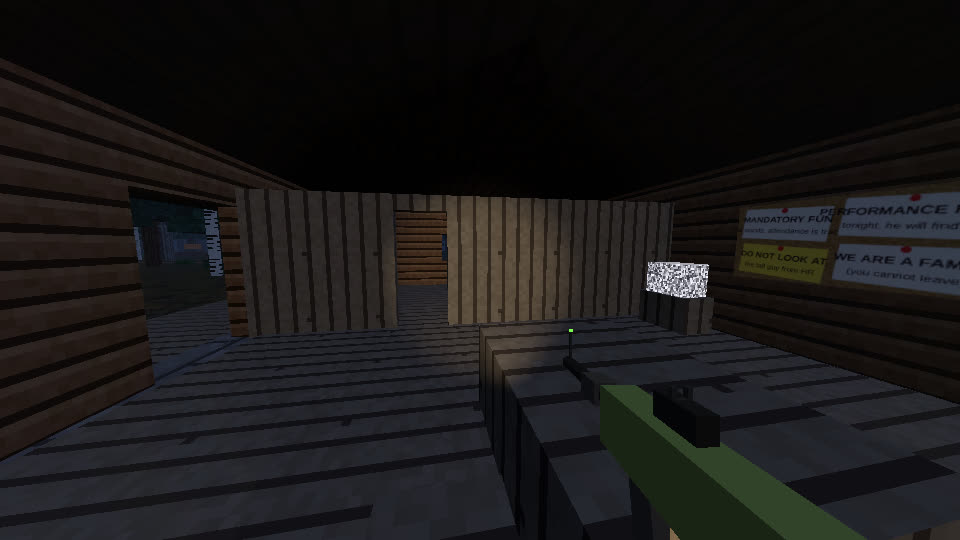
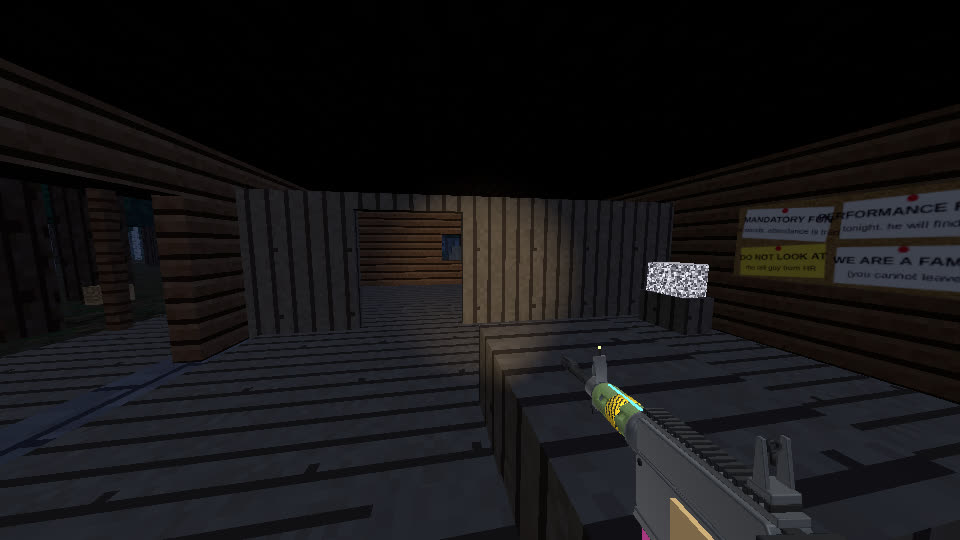
Scary Forest: bots can get into the cabin now, so they plant at A
The cabin's doors were too narrow for the bots' walk graph (the front door was 1.6 m with the bedroom
wall right at its edge), so the inside of the cabin was cut off from the rest of the map. Players
fit, bots didn't: main's new attack AI picks plant spots inside the cabin and ran out the clock every
A round. The front, back and bedroom doors and the mast shed's door are 2 m now, on the 1 m grid.
The whole cabin connects; a 10-minute bots match planted on 4 of 4 A attacks.

Claude-Session: https://claude.ai/code/session_01Ayo4emsWAf2dVQjxKunVbu

diff --git a/shared/map.js b/shared/map.js
@@ -2273,13 +2273,14 @@ function forest() {
   { const L = B.local(CAB[0], CAB[1], 0);
     const hw = 6.5, hd = 4.5, t = 0.35, Hh = 3.1, F = 0.35;
     L(-hw - 0.4, 0, -hd - 0.4, hw + 0.4, F, hd + 0.4, 'stonebase'); L(-hw + t, F, -hd + t, hw - t, F + 0.05, hd - t, 'planks');
-    const front = [{ a: -1.0, b: 0.6, y0: F, y1: F + 2.3 }, { a: -4.6, b: -3.0, y0: F + 1.0, y1: F + 2.1 }, { a: 2.8, b: 4.4, y0: F + 1.0, y1: F + 2.1 }];
+    // doors 2 m wide on the 1 m grid, so bots' walk graph gets through them
+    const front = [{ a: 0, b: 2.0, y0: F, y1: F + 2.3 }, { a: -4.6, b: -3.0, y0: F + 1.0, y1: F + 2.1 }, { a: 2.8, b: 4.4, y0: F + 1.0, y1: F + 2.1 }];
     wall(L, 'x', hd, -hw, hw, F, F + Hh, t, 'logwall', front); // the front, facing the porch (+z, south)
-    wall(L, 'x', -hd, -hw, hw, F, F + Hh, t, 'logwall', [{ a: 3.4, b: 4.8, y0: F, y1: F + 2.3 }, { a: -3.6, b: -2.2, y0: F + 1.0, y1: F + 2.1 }]); // the back door
+    wall(L, 'x', -hd, -hw, hw, F, F + Hh, t, 'logwall', [{ a: 3.0, b: 5.0, y0: F, y1: F + 2.3 }, { a: -3.6, b: -2.2, y0: F + 1.0, y1: F + 2.1 }]); // the back door
     wall(L, 'z', -hw, -hd + t / 2, hd - t / 2, F, F + Hh, t, 'logwall', [{ a: -0.8, b: 0.8, y0: F + 1.0, y1: F + 2.1 }]);
     wall(L, 'z', hw, -hd + t / 2, hd - t / 2, F, F + Hh, t, 'logwall', [{ a: 1.4, b: 2.6, y0: F + 1.0, y1: F + 2.1 }]);
-    L(-1.2, F, -hd + t / 2, -0.9, F + 2.6, 0.8, 'planks'); // a thin wall splits off the bedroom (west), with a doorway
-    L(-1.2, F, 1.8, -0.9, F + 2.6, hd - t / 2, 'planks'); L(-1.2, F + 2.3, 0.8, -0.9, F + 2.6, 1.8, 'planks');
+    L(-1.2, F, -hd + t / 2, -0.9, F + 2.6, 0.5, 'planks'); // a thin wall splits off the bedroom (west), with a 2 m doorway (bots fit)
+    L(-1.2, F, 2.5, -0.9, F + 2.6, hd - t / 2, 'planks'); L(-1.2, F + 2.3, 0.5, -0.9, F + 2.6, 2.5, 'planks');
     // the roof: stepped slabs to a ridge along x, a little overhang, then a ridge beam
     const top = F + Hh;
     for (let i = 0; i < 5; i++) L(-hw - 0.5, top + i * 0.42, -hd - 0.7 + i * 1.05, hw + 0.5, top + i * 0.42 + 0.42, hd + 0.7 - i * 1.05, i % 2 ? 'cabinroof2' : 'cabinroof');
@@ -2369,7 +2370,7 @@ function forest() {
     const Sd = B.local(mx - 5, mz - 1, 0);
     Sd(-2.5, 0, -2, 2.5, 0.2, 2, 'concrete');
     wall(Sd, 'x', -2, -2.5, 2.5, 0.2, 2.9, 0.2, 'shedmetal', []); wall(Sd, 'x', 2, -2.5, 2.5, 0.2, 2.9, 0.2, 'shedmetal', [{ a: -1.6, b: 0, y0: 1.1, y1: 2.0 }]);
-    wall(Sd, 'z', -2.5, -1.9, 1.9, 0.2, 2.9, 0.2, 'shedmetal', [{ a: -0.6, b: 0.8, y0: 0.2, y1: 2.4 }]); wall(Sd, 'z', 2.5, -1.9, 1.9, 0.2, 2.9, 0.2, 'shedmetal', []);
+    wall(Sd, 'z', -2.5, -1.9, 1.9, 0.2, 2.9, 0.2, 'shedmetal', [{ a: -1.0, b: 1.0, y0: 0.2, y1: 2.4 }]); wall(Sd, 'z', 2.5, -1.9, 1.9, 0.2, 2.9, 0.2, 'shedmetal', []);
     Sd(-2.7, 2.9, -2.2, 2.7, 3.1, 2.2, 'roofg');
     Sd(0.6, 0.2, -1.85, 2.35, 1.0, -0.9, 'metal'); Sd(0.8, 1.0, -1.85, 2.2, 1.8, -1.7, 'radiopanel', { fit: 1 }); Sd(-1.0, 0.2, 1.0, -0.2, 0.7, 1.7, 'officechair');
     B.add(mx + 7, 0, mz - 8, mx + 9.4, 1.3, mz - 6.6, 'generator'); B.add(mx + 7.2, 1.3, mz - 7.9, mx + 7.5, 2.1, mz - 7.6, 'metal');
